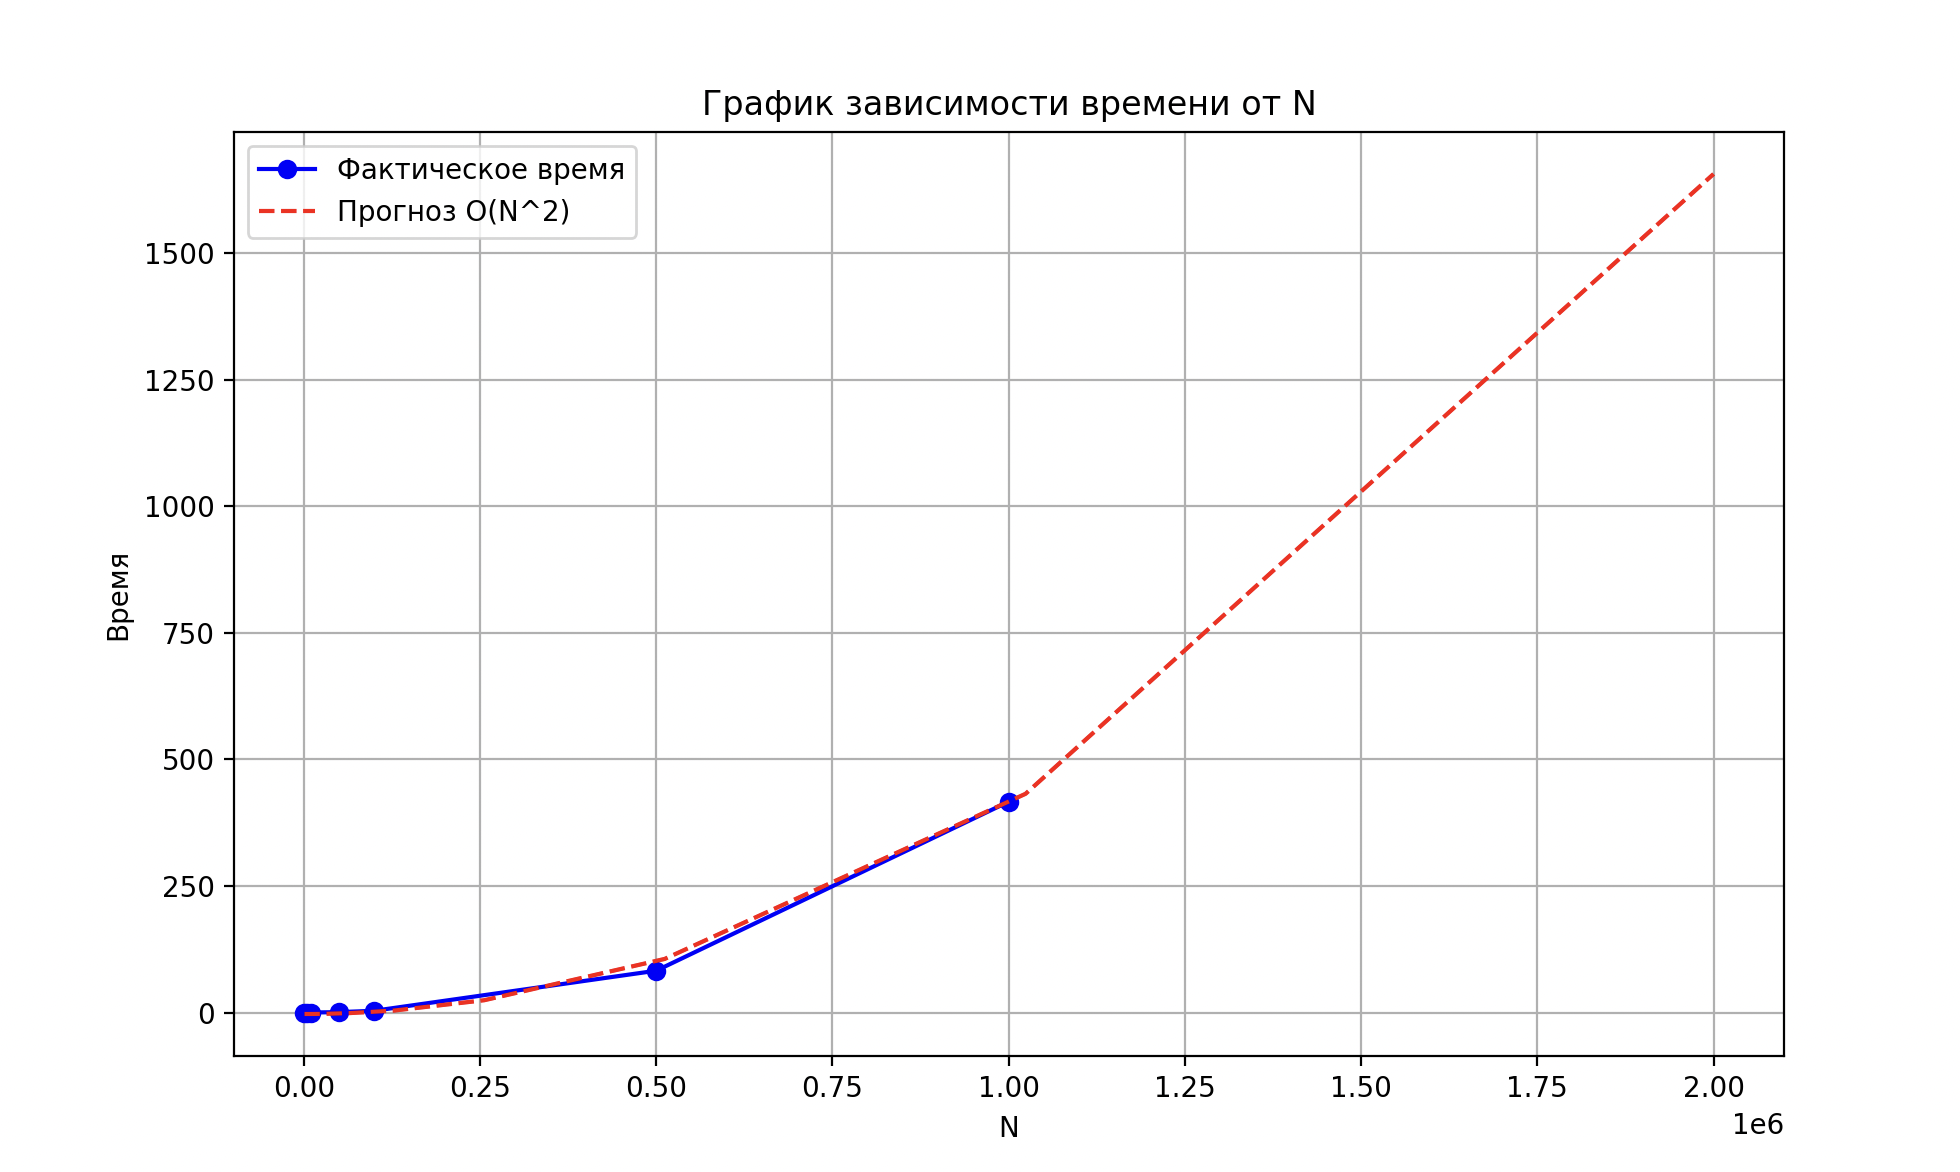
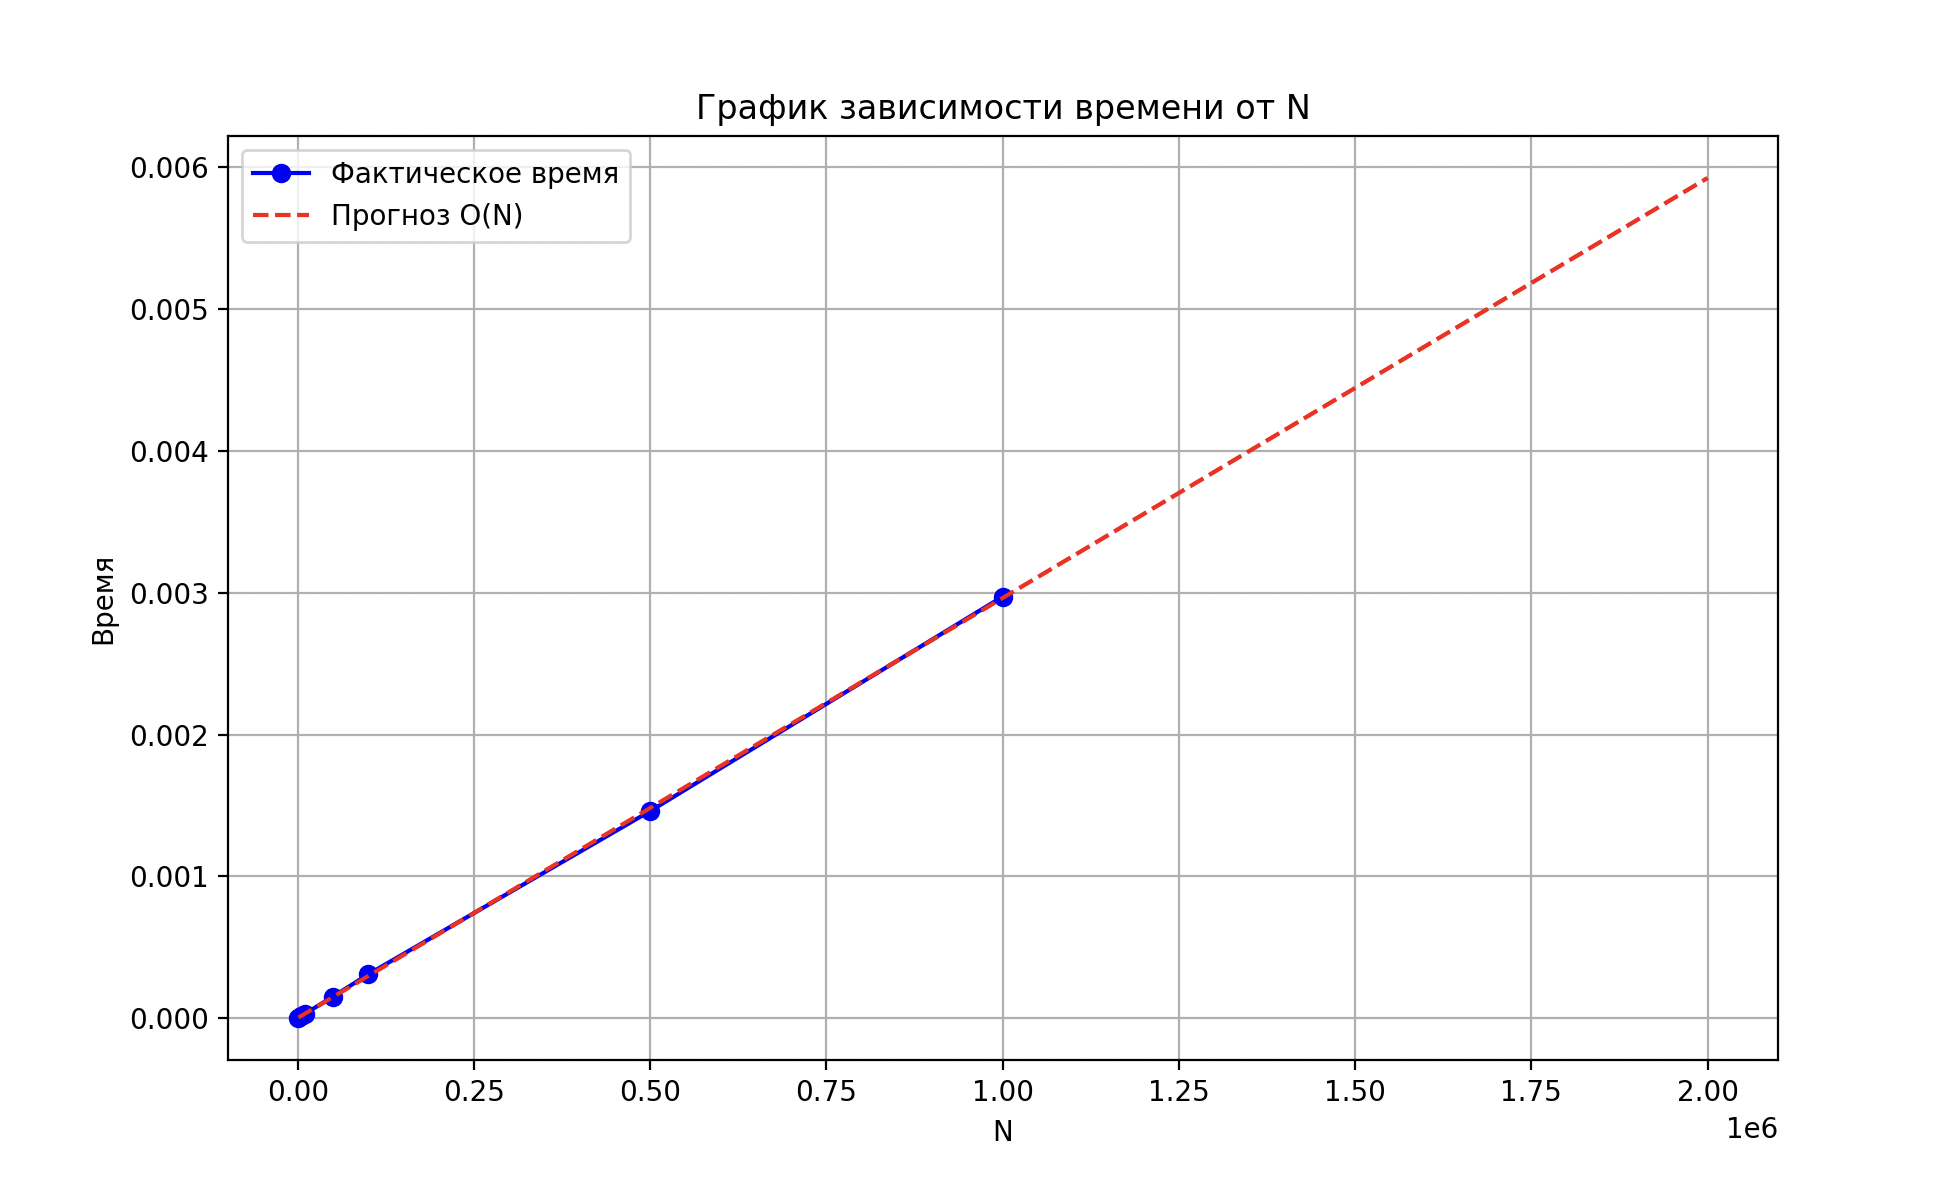
Added recursion

diff --git a/Josephus linelist/main.cpp b/Josephus linelist/main.cpp
@@ -1,37 +1,15 @@
 #include <iostream>
 #include <fstream>
 #include <ctime>
-#include "linelist.h"
 
 using namespace std;
 
 int josephus(int N, int k) {
-    LineList<int> list;
-
-    for (int i = N; i >= 1; i--) {
-        list.insertFirst(i);
+    int winner = 0;
+    for (int i = 2; i <= N; i++) {
+        winner = (winner + k) % i;
     }
-
-    int size = N;
-    int position = 0;
-
-    while (size > 1) {
-        position = (position + k - 1) % size;
-
-        if (position == 0) {
-            list.deleteFirst();
-        } else {
-            LineListElem<int>* ptr = list.getStart();
-            for (int i = 0; i < position - 1; i++) {
-                ptr = ptr->getNext();
-            }
-            list.deleteAfter(ptr);
-        }
-        
-        size--;
-    }
-
-    return list.getStart()->getData();
+    return winner + 1;
 }
 
 int main() {
